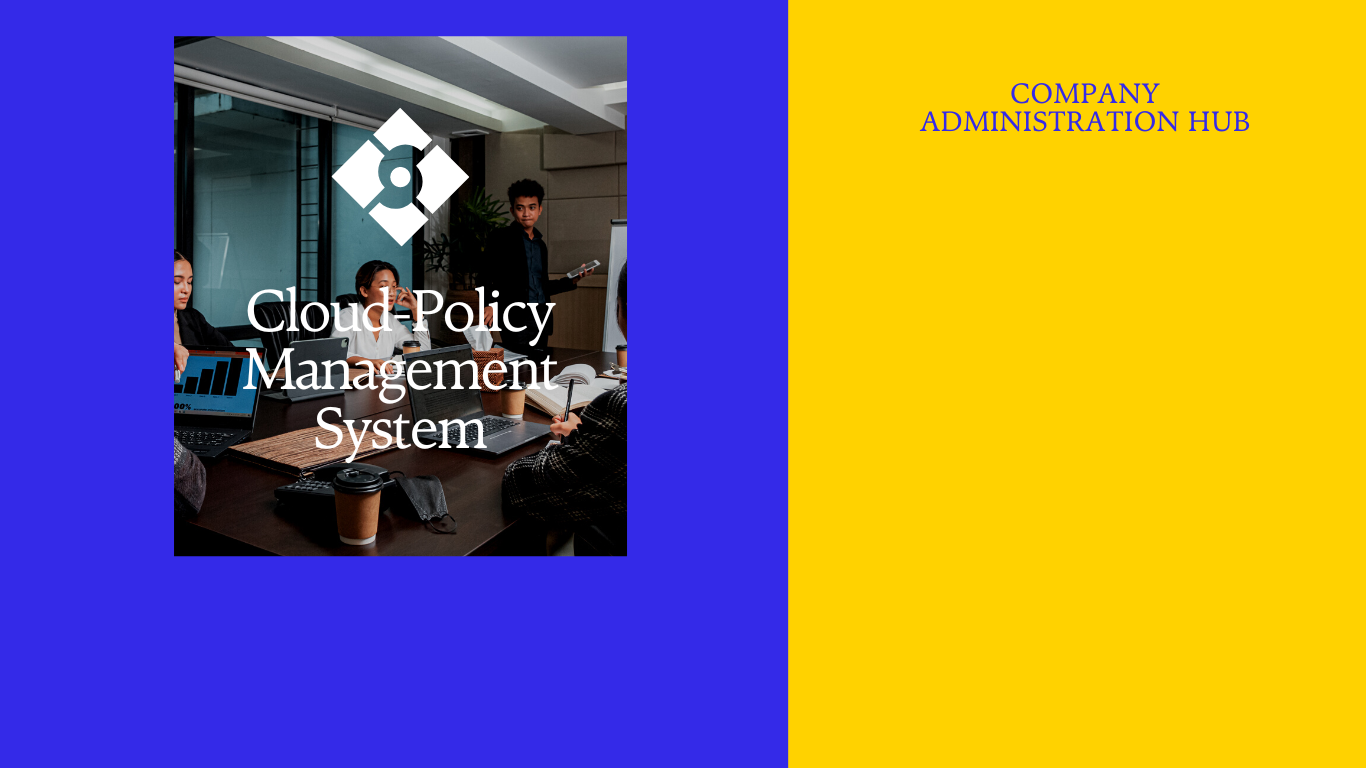
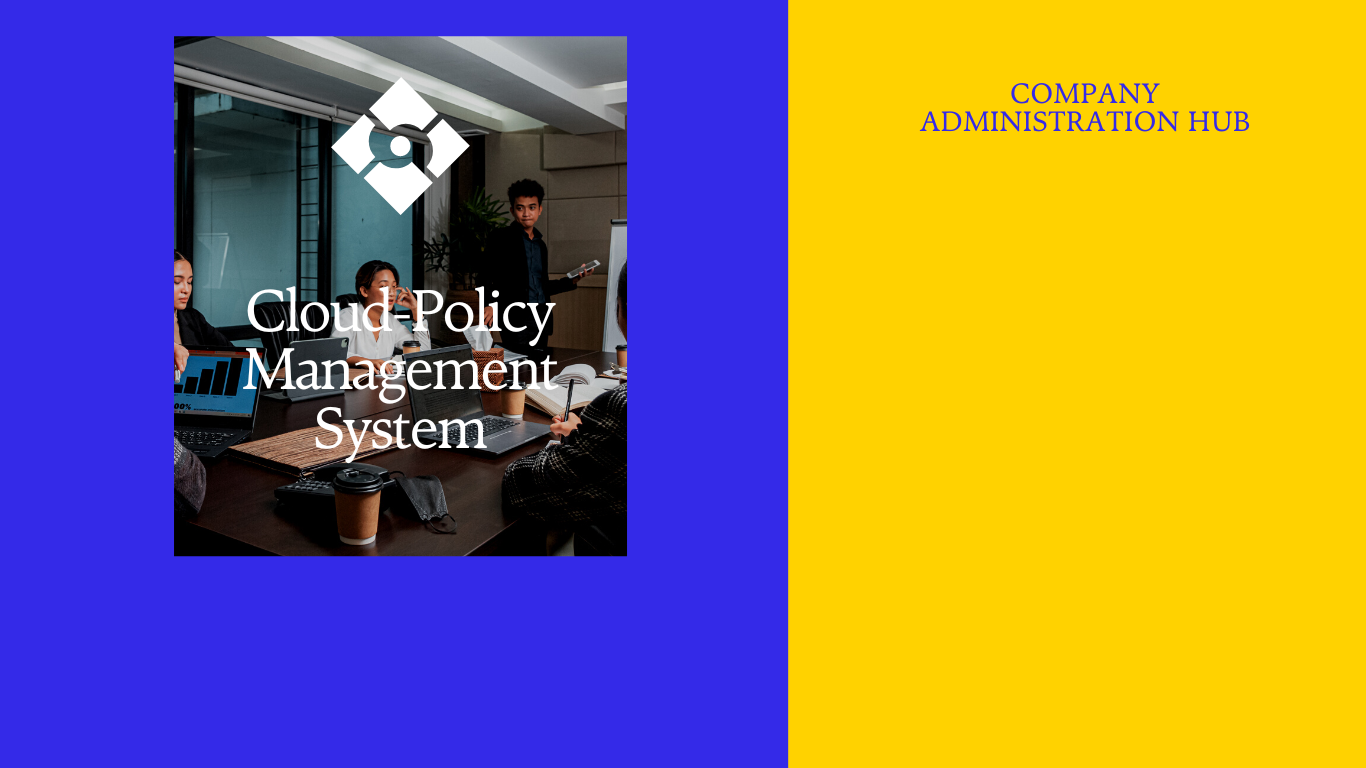
V1.0

Changed region(s): [[0.246, 0.0938, 0.3382, 0.3125]]

diff --git a/src/layout/index.vue b/src/layout/index.vue
@@ -1,0 +1,72 @@
+<template>
+    <div class="layout_container">
+        <!-- 左侧菜单 -->
+        <div class="layout_slider">
+            <logo></logo>
+            <!-- 展示菜单 -->
+            <!-- 滚动组件 -->
+            <el-scrollbar class="scrollbar">
+                <!-- 菜单组件 -->
+                <el-menu background-color="#ffd200" text-color="#907239">
+
+
+                </el-menu>
+
+            </el-scrollbar>
+        </div>
+        <!-- 顶部导航 -->
+        <div class="layout_tabbar">456</div>
+        <!-- 内容展示区 -->
+        <div class="layout_main">
+            <p style="height: 1000px; background:skyblue;">叭叭叭叭叭叭叭叭叭</p>
+        </div>
+
+    </div>
+</template>
+
+<script setup lang="ts">
+//引入左侧菜单Logo子组件
+import Logo from './logo/logo.vue'
+//引入菜单组件
+
+</script>
+
+<style scoped lang="scss">
+.layout_container {
+    width: 100%;
+    height: 100vh;
+
+
+    .layout_slider {
+        width: $base-menu-width;
+        height: 100vh;
+        background: $base-menu-background;
+
+        .scrollbar {
+            width: 100%;
+            height: calc(100vh - $base-menu-logo-height);
+        }
+    }
+
+    .layout_tabbar {
+        position: fixed;
+        width: calc(100% - $base-menu-width);
+        height: $base-tabbar-height;
+        background-color: pink;
+        top: 0;
+        left: $base-menu-width;
+    }
+
+    .layout_main {
+        position: absolute;
+        width: calc(100% - $base-menu-width);
+        height: calc(100% - $base-tabbar-height);
+        background: wheat;
+        left: $base-menu-width;
+        top: $base-tabbar-height;
+        padding: 20px;
+        overflow: auto;
+    }
+
+}
+</style>

diff --git a/src/layout/logo/logo.vue b/src/layout/logo/logo.vue
@@ -1,0 +1,33 @@
+<template>
+    <div class="logo" v-if="setting.logoHidden">
+        <img :src="setting.logo" alt="">
+        <p>{{ setting.title }}</p>
+    </div>
+</template>
+
+<script setup lang="ts">
+//引入设置标题与logo的配置文件
+import setting from '@/setting'
+</script>
+
+<style scoped lang="scss">
+.logo {
+    width: 100%;
+    height: $base-menu-logo-height;
+    color: white;
+    display: flex;
+    align-items: center;
+    padding: 20px;
+    user-select: none;
+
+    img {
+        width: 40px;
+        height: 40px;
+    }
+
+    p {
+        font-size: $base-logo-title-fontSize;
+        margin-left: 10px;
+    }
+}
+</style>

diff --git a/src/views/login/index.vue b/src/views/login/index.vue
@@ -79,10 +79,10 @@ const login = async () => {
 //定义表单校验需要的配置对象
 const rules = {
     username: [
-        { required: true, message: '请输入用户名', trigger: 'blur' }
+        { required: true, message: '请输入用户名', trigger: 'change' }
     ],
     password: [
-        { required: true, min: 6, max: 10, message: '密码需在6~10位之间', trigger: 'blur' }
+        { required: true, min: 6, max: 10, message: '密码需在6~10位之间', trigger: 'change' }
     ]
 }
 </script>

diff --git a/src/styles/variable.scss b/src/styles/variable.scss
@@ -1,1 +1,14 @@
 //项目提供scss全局变量
+//定义项目主题颜色
+
+//左侧菜单宽度
+$base-menu-width: 260px;
+//左侧菜单背景颜色
+$base-menu-background: #ffd200;
+//左侧菜单logo高度设置
+$base-menu-logo-height: 50px;
+//左侧菜单logo文字大小设置
+$base-logo-title-fontSize: 20px;
+
+//顶部导航高度
+$base-tabbar-height: 50px;

diff --git a/src/styles/index.scss b/src/styles/index.scss
@@ -1,2 +1,17 @@
 //引入清楚默认样式
 @import './reset.scss';
+
+//滚动条样式
+::-webkit-scrollbar {
+    width: 10px;
+}
+
+::-webkit-scrollbar-track {
+    background: $base-menu-background;
+}
+
+::-webkit-scrollbar-thumb {
+    width: 10px;
+    background: rgb(189, 185, 185);
+    border-radius: 8px;
+}

diff --git a/index.html b/index.html
@@ -3,7 +3,7 @@
 
 <head>
   <meta charset="UTF-8" />
-  <link rel="icon" type="image/svg+xml" href="/vite.svg" />
+  <link rel="icon" type="image/svg+xml" href="/public/logo.png" />
   <meta name="viewport" content="width=device-width, initial-scale=1.0" />
   <title>OperationsPalace-云策管理系统</title>
 </head>

diff --git a/src/router/routes.ts b/src/router/routes.ts
@@ -8,8 +8,8 @@ export const constantRoute = [
     },
     {
         //登录成功后展示数据的路由
-        path: '/home',
-        component: () => import('@/views/home/index.vue'),
+        path: '/',
+        component: () => import('@/layout/index.vue'),
         name: 'home'
     },
     {

diff --git a/src/setting.ts b/src/setting.ts
@@ -1,0 +1,6 @@
+//项目logo|标题配置
+export default {
+    title: '云策管理系统',//项目标题
+    logo: '/public/logo.svg',//项目logo
+    logoHidden: true,//logo组件是否显示
+}

diff --git a/src/layout/menu/index.vue b/src/layout/menu/index.vue
@@ -1,0 +1,11 @@
+<template>
+    <div>
+        menu
+    </div>
+</template>
+
+<script setup lang="ts">
+
+</script>
+
+<style scoped></style>
